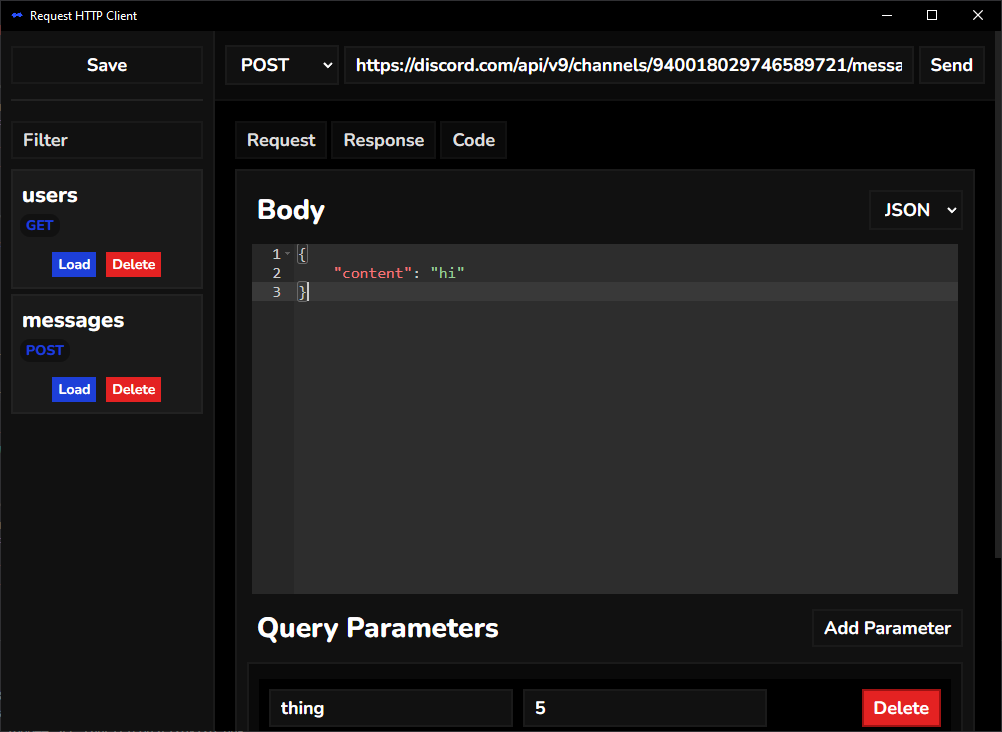
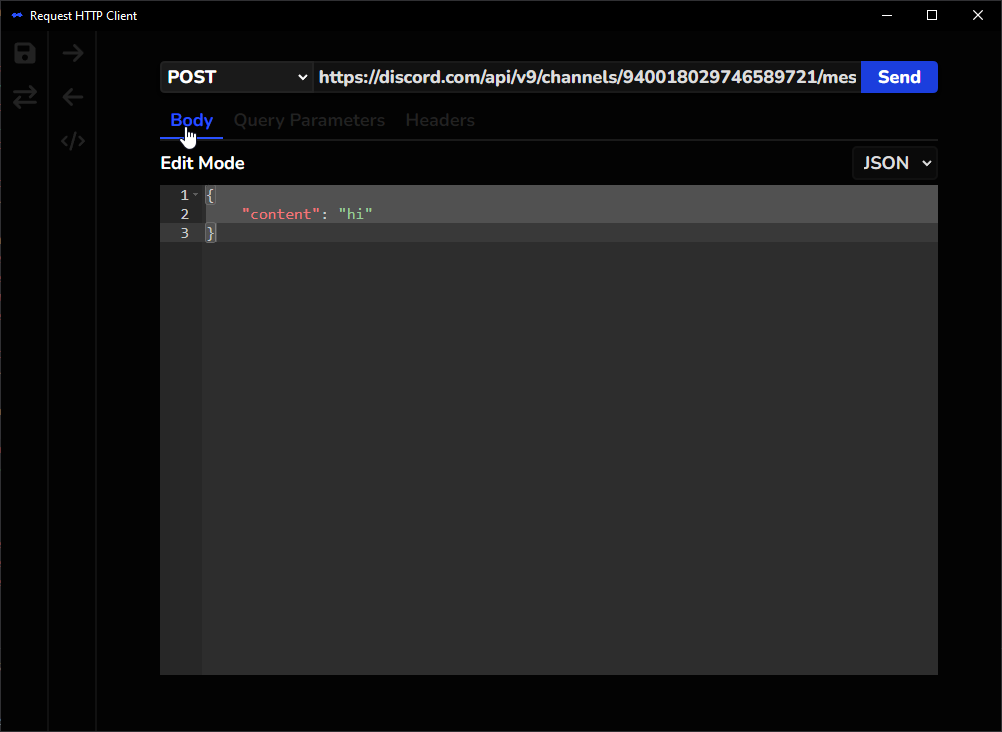
leak new ui screenshot

diff --git a/src/main.ts b/src/main.ts
@@ -1,34 +1,56 @@
-import { createApp } from 'vue'
-import { createStore } from 'vuex'
-import App from './App.vue'
+import { createApp } from "vue";
+import { createStore } from "vuex";
+import App from "./App.vue";
 
 const store = createStore({
-    state() {
-        return {
-            url: "",
-            method: "POST",
-            bodyType: "None",
-            body: "",
-            queryParameters: [],
-            headers: []
-        }
+  state() {
+    return {
+      url: "",
+      method: "POST",
+      bodyType: "None",
+      body: "",
+      queryParameters: [],
+      headers: [],
+    };
+  },
+  mutations: {
+    setUrl: (state: any, param: string) => (state.url = param),
+    setMethod: (state: any, param: string) => (state.method = param),
+    setBodyType: (state: any, param: string) => (state.bodyType = param),
+    setBody: (state: any, param: string) => (state.body = param),
+    newQueryParameter: (state: any) => state.queryParameters.push(["", ""]),
+    editQueryParameterKey: (state: any, { index, key }) =>
+      (state.queryParameters[index][0] = key),
+    editQueryParameterValue: (state: any, { index, value }) =>
+      (state.queryParameters[index][1] = value),
+    deleteQueryParameter: (state: any, index: number) =>
+      (state.queryParameters = state.queryParameters.filter(
+        (_: Array<string>, i: number) => i !== index
+      )),
+    newHeader: (state: any) => state.headers.push(["", ""]),
+    editHeaderKey: (state: any, { index, key }) =>
+      (state.headers[index][0] = key),
+    editHeaderValue: (state: any, { index, value }) =>
+      (state.headers[index][1] = value),
+    deleteHeader: (state: any, index: number) =>
+      (state.headers = state.headers.filter(
+        (_: Array<string>, i: number) => i !== index
+      )),
+    setHeaders: (state: any, header: Record<string, any>) => {
+      state.headers = [];
+      for (let key in header) {
+        state.headers.push([key, header[key]]);
+      }
     },
-    mutations: {
-        setUrl: (state: any, param: string) => state.url = param,
-        setMethod: (state: any, param: string) => state.method = param,
-        setBodyType: (state: any, param: string) => state.bodyType = param,
-        setBody: (state: any, param: string) => state.body = param,
-        newQueryParameter: (state: any) => state.queryParameters.push(["", ""]),
-        editQueryParameterKey: (state: any, { index, key }) => state.queryParameters[index][0] = key,
-        editQueryParameterValue: (state: any, { index, value }) => state.queryParameters[index][1] = value,
-        deleteQueryParameter: (state: any, index: number) => state.queryParameters = state.queryParameters.filter((_: Array<string>, i: number) => i !== index),
-        newHeader: (state: any) => state.headers.push(["", ""]),
-        editHeaderKey: (state: any, { index, key }) => state.headers[index][0] = key,
-        editHeaderValue: (state: any, { index, value }) => state.headers[index][1] = value,
-        deleteHeader: (state: any, index: number) => state.headers = state.headers.filter((_: Array<string>, i: number) => i !== index)
-    }
-})
+    setQueryParameters: (state: any, queryParameters: Record<string, any>) => {
+      state.queryParameters = [];
+      for (let key in queryParameters) {
+        state.queryParameters.push([key, queryParameters[key]]);
+      }
+    },
+  },
+});
 
-const app = createApp(App)
-app.use(store)
-app.mount('#app')
+const app = createApp(App);
+app.use(store);
+app.mount("#app");

diff --git a/src/components/Save.vue b/src/components/Save.vue
@@ -12,7 +12,7 @@
       <h2>{{ data.method }}</h2>
     </div>
     <div class="flex-center">
-      <button>Load</button>
+      <button @click="loadSave(data)">Load</button>
       <button @click="writeText(data.url)">Copy Url</button>
       <button>Remove</button>
     </div>
@@ -21,10 +21,24 @@
 
 <script setup lang="ts">
 import { writeText } from "@tauri-apps/api/clipboard";
+import { useStore } from "vuex";
 
 defineProps<{
   data: Record<string, any>;
 }>();
+
+const store = useStore();
+
+function loadSave(data: Record<string, any>): void {
+  store.commit("setUrl", data.url);
+  store.commit("setMethod", data.method);
+  store.commit("setBody", data.body);
+  store.commit("setBodyType", data.bodyType);
+  store.commit("setHeaders", data.headers);
+
+  if (!data.queryParameters) data.queryParameters = {};
+  store.commit("setQueryParameters", data.queryParameters);
+}
 </script>
 
 <style scoped>

diff --git a/src/components/Saves.vue b/src/components/Saves.vue
@@ -18,11 +18,6 @@
     </span>
     <div class="flex">
       <Save v-for="data in filtered" :data="data" />
-      <Save v-for="data in filtered" :data="data" />
-      <Save v-for="data in filtered" :data="data" />
-      <Save v-for="data in filtered" :data="data" />
-      <Save v-for="data in filtered" :data="data" />
-      <Save v-for="data in filtered" :data="data" />
     </div>
   </div>
 </template>

diff --git a/README.md b/README.md
@@ -6,9 +6,6 @@ Open-source api development application for minimalists, with new front-end.
 ## Screenshots
 ![s1](/public/ss1.png)
 ![s2](/public/ss2.png)
-![s3](/public/ss3.png)
-![s4](/public/ss4.png)
-![s5](/public/ss5.png)
 
 </div>
 
